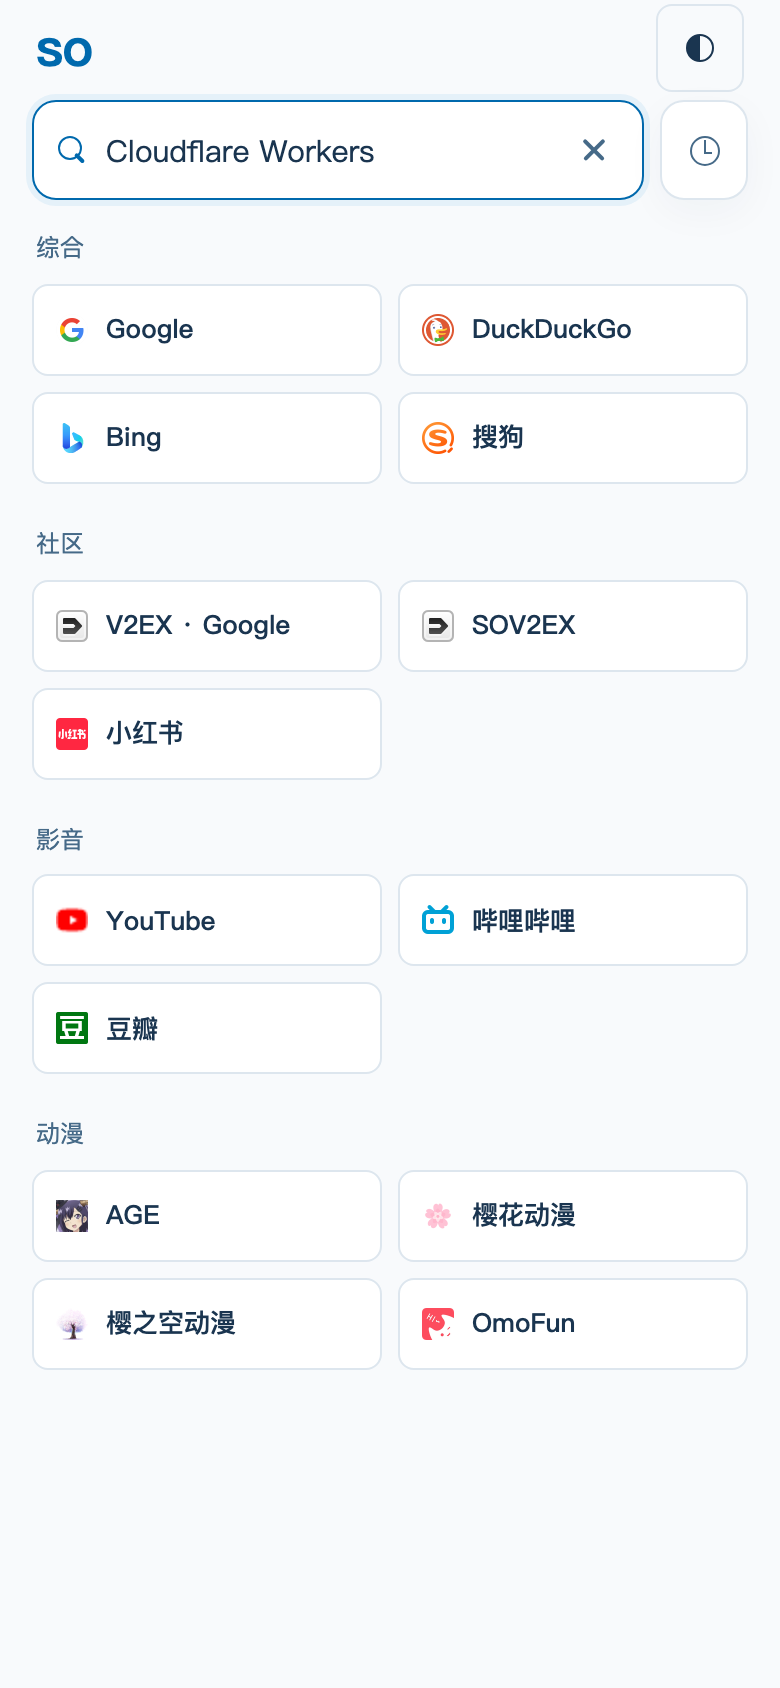
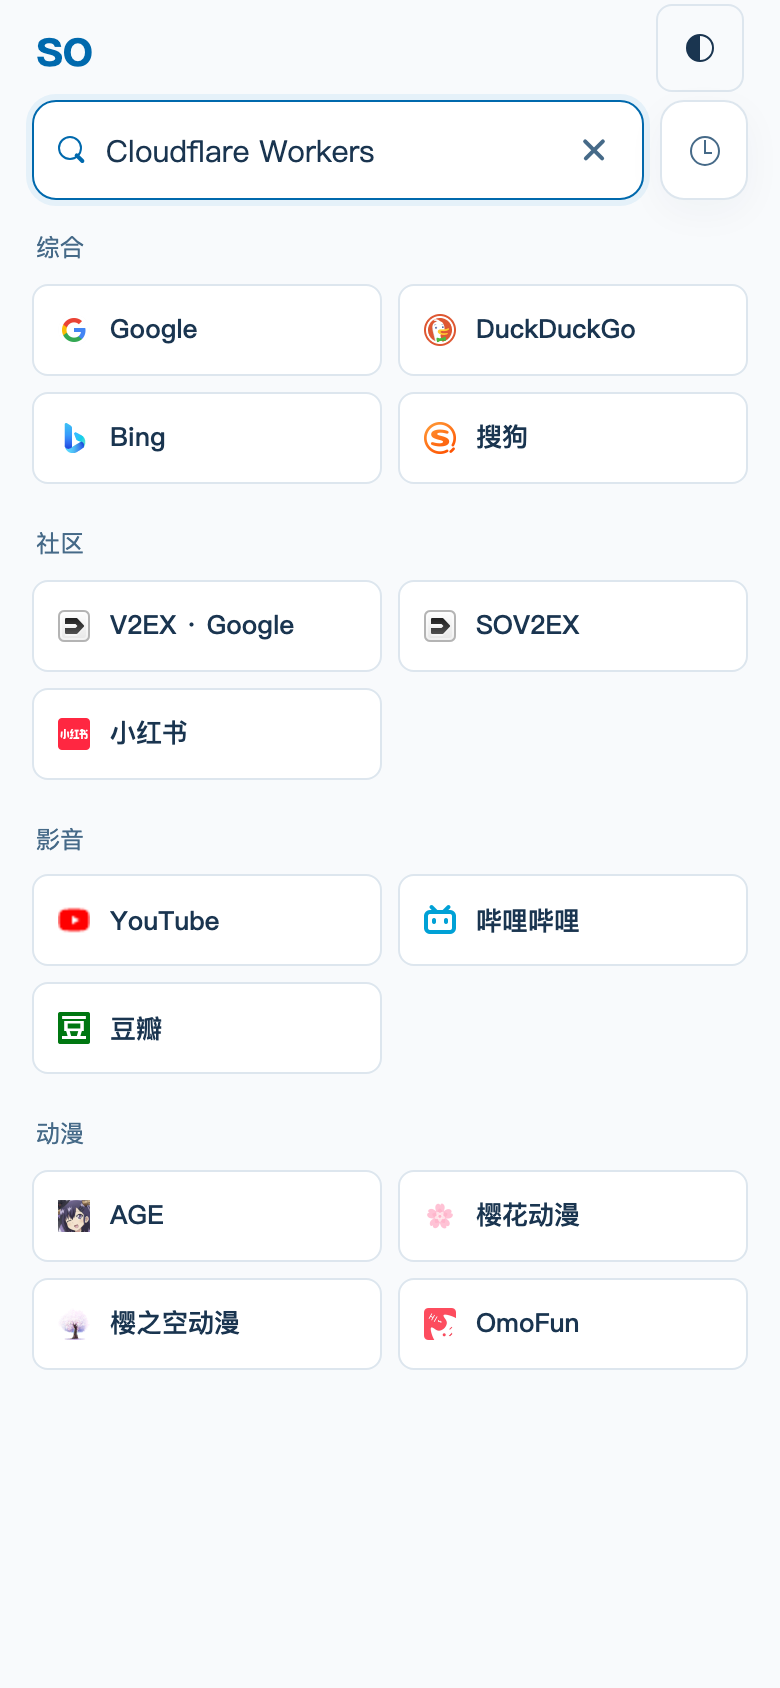
feat: 深色图标加底片，移动端不再弹键盘
- 入口图标统一 20px，深色下加淡底片
- 手机端点最近搜索或历史项不再聚焦输入框
- 删除历史按钮的 aria-label 带上关键词
- 最近 5 条提取为常量
- .ryugi/ 加入 .gitignore
- 预览图与测试文档同步

diff --git a/designs/so/clean.html b/designs/so/clean.html
@@ -44,7 +44,7 @@ input{min-width:0;flex:1;background:transparent;border:0;outline:0;color:var(--t
 .group-title{margin:0 0 8px 2px;font-size:12px;font-weight:400;color:var(--muted)}
 .engine-grid{display:grid;grid-template-columns:repeat(4,minmax(0,1fr));gap:8px}
 .engine{display:flex;gap:8px;align-items:center;background:var(--surface);border:1px solid var(--line);border-radius:8px;padding:8px 10px;min-height:46px;transition:transform .15s,border-color .15s,box-shadow .15s}.engine:hover{border-color:var(--accent);transform:translateY(-1px);box-shadow:0 6px 18px rgba(26,53,80,.06)}
-.engine-mark{display:flex;align-items:center;justify-content:center;width:18px;height:18px;flex:0 0 18px;background:transparent}.engine-mark img{width:16px;height:16px;object-fit:contain}
+.engine-mark{display:flex;align-items:center;justify-content:center;width:20px;height:20px;flex:0 0 20px;border-radius:4px;background:transparent}.engine-mark img{width:16px;height:16px;object-fit:contain}:root[data-theme="dark"] .engine-mark{background:rgba(255,255,255,.06)}
 .engine-name{font-size:13px;font-weight:500;flex:1;min-width:0;overflow-wrap:anywhere}
 .history-panel{position:absolute;right:0;top:calc(100% + 6px);width:min(100%,360px);z-index:5;border:1px solid var(--line);border-radius:10px;background:var(--surface);box-shadow:0 12px 32px rgba(26,53,80,.12);padding:10px}
 .history-heading{display:flex;justify-content:space-between;align-items:center;font-size:12px;padding:0 4px 8px;border-bottom:1px solid var(--line)}
@@ -380,10 +380,12 @@ function render(query,save=false){
  return true;
 }
 function search(){if(!input.value.trim())return;if(!render(input.value,true))return;const url=new URL(location.href);url.searchParams.set('q',input.value.trim());if(url.href!==location.href)history.pushState(null,'',url);closeHistory();}
-function renderHistory(){const list=document.querySelector('#historyList');list.replaceChildren();const items=readHistory();const clearBtn=document.querySelector('#clearHistoryBtn');if(clearBtn)clearBtn.hidden=items.length===0;if(!items.length){const empty=document.createElement('div');empty.className='history-empty';empty.textContent='暂无搜索历史';list.append(empty);return;}for(const query of items){const row=document.createElement('div');row.className='history-row';const button=document.createElement('button');button.type='button';button.className='history-query';button.textContent=query;button.onclick=()=>{input.value=query;syncClear();search();input.focus();};const remove=document.createElement('button');remove.type='button';remove.className='history-delete';const close=document.createElement('span');close.className='close-symbol';close.setAttribute('aria-hidden','true');remove.append(close);remove.setAttribute('aria-label','删除历史：'+query);remove.onclick=event=>{event.stopPropagation();writeHistory(readHistory().filter(item=>item!==query));renderHistory();renderRecent(document.querySelector('#results').hidden);trigger.focus();};row.append(button,remove);list.append(row);}}
+function renderHistory(){const list=document.querySelector('#historyList');list.replaceChildren();const items=readHistory();const clearBtn=document.querySelector('#clearHistoryBtn');if(clearBtn)clearBtn.hidden=items.length===0;if(!items.length){const empty=document.createElement('div');empty.className='history-empty';empty.textContent='暂无搜索历史';list.append(empty);return;}for(const query of items){const row=document.createElement('div');row.className='history-row';const button=document.createElement('button');button.type='button';button.className='history-query';button.textContent=query;button.onclick=()=>{input.value=query;syncClear();search();if(!isMobileDevice())input.focus();};const remove=document.createElement('button');remove.type='button';remove.className='history-delete';const close=document.createElement('span');close.className='close-symbol';close.setAttribute('aria-hidden','true');remove.append(close);remove.setAttribute('aria-label','删除历史记录：'+query);remove.onclick=event=>{event.stopPropagation();writeHistory(readHistory().filter(item=>item!==query));renderHistory();renderRecent(document.querySelector('#results').hidden);trigger.focus();};row.append(button,remove);list.append(row);}}
+const isMobileDevice=()=>/android|webos|iphone|ipad|ipod|blackberry|iemobile|opera mini/i.test(navigator.userAgent);
+const recentLimit=5;
 let clearHistoryArmed=false,clearHistoryTimer=null;
 function resetClearHistory(){clearHistoryArmed=false;clearTimeout(clearHistoryTimer);const btn=document.querySelector('#clearHistoryBtn');if(btn){btn.textContent='清空';btn.setAttribute('aria-label','清空搜索历史');}}
-function renderRecent(emptyView){const box=document.querySelector('#recentSearches');const list=document.querySelector('#recentList');if(!box||!list)return;list.replaceChildren();const items=emptyView?readHistory().slice(0,5):[];if(!items.length){box.hidden=true;return;}for(const query of items){const chip=document.createElement('button');chip.type='button';chip.className='recent-chip';chip.textContent=query;chip.title=query;chip.onclick=()=>{input.value=query;syncClear();search();input.focus();};list.append(chip);}box.hidden=false;}
+function renderRecent(emptyView){const box=document.querySelector('#recentSearches');const list=document.querySelector('#recentList');if(!box||!list)return;list.replaceChildren();const items=emptyView?readHistory().slice(0,recentLimit):[];if(!items.length){box.hidden=true;return;}for(const query of items){const chip=document.createElement('button');chip.type='button';chip.className='recent-chip';chip.textContent=query;chip.title=query;chip.onclick=()=>{input.value=query;syncClear();search();if(!isMobileDevice())input.focus();};list.append(chip);}box.hidden=false;}
 document.querySelector('#searchForm').addEventListener('submit',event=>{event.preventDefault();search();});
 input.addEventListener('input',syncClear);input.addEventListener('input',syncCurrentSearch);
 document.querySelector('#clearButton').onclick=()=>{input.value='';syncClear();render('');input.focus();if(location.search)history.replaceState(null,'',location.pathname);};
@@ -394,7 +396,7 @@ document.addEventListener('keydown',event=>{if(event.key==='/'&&event.target.tag
 window.addEventListener('popstate',()=>{input.value=new URL(location.href).searchParams.get('q')||'';syncClear();render(input.value);});
 input.value=new URL(location.href).searchParams.get('q')||'';
 syncClear();render(input.value,!!input.value);
-if(!matchMedia('(pointer:coarse)').matches)input.focus();
+if(!isMobileDevice())input.focus();
 </script>
 </body>
 </html>

diff --git a/src/client.js b/src/client.js
@@ -8,6 +8,7 @@ const THEME_KEY = document.documentElement.dataset.themeKey;
 const SEARCH_HISTORY_KEY = 'search_history';
 const SEARCH_INPUT_ID = 'searchInput';
 const MOBILE_REGEX = /android|webos|iphone|ipad|ipod|blackberry|iemobile|opera mini/i;
+const RECENT_SEARCH_LIMIT = 5;
 
 function isMobileDevice() {
   return MOBILE_REGEX.test(navigator.userAgent);
@@ -92,7 +93,7 @@ function renderRecentSearches() {
   if (!box || !list) return;
 
   const emptyView = container ? container.classList.contains('is-empty') : false;
-  const history = emptyView ? getSearchHistory().slice(0, 5) : [];
+  const history = emptyView ? getSearchHistory().slice(0, RECENT_SEARCH_LIMIT) : [];
 
   list.replaceChildren();
   if (history.length === 0) {
@@ -166,8 +167,8 @@ function renderHistoryDropdown() {
     deleteIcon.setAttribute('aria-hidden', 'true');
     deleteBtn.appendChild(deleteIcon);
     deleteBtn.dataset.query = encodeURIComponent(query);
-    deleteBtn.setAttribute('aria-label', '删除此历史记录');
-    deleteBtn.title = '删除此历史记录';
+    deleteBtn.setAttribute('aria-label', `删除历史记录：${query}`);
+    deleteBtn.title = `删除历史记录：${query}`;
 
     itemDiv.appendChild(queryBtn);
     itemDiv.appendChild(deleteBtn);

diff --git a/src/styles.css b/src/styles.css
@@ -549,10 +549,18 @@ input[type="text"]::placeholder {
 }
 
 .button-icon {
-  width: 16px;
-  height: 16px;
-  flex: 0 0 16px;
+  width: 20px;
+  height: 20px;
+  flex: 0 0 20px;
+  padding: 2px;
+  box-sizing: border-box;
+  border-radius: 4px;
   object-fit: contain;
+}
+
+/* 白底 favicon 在深色下最亮，加一层很淡的底片把它收进同一套卡片 */
+:root[data-theme="dark"] .button-icon {
+  background: rgba(255, 255, 255, 0.06);
 }
 
 .button-icon.error {

diff --git a/designs/so/README.md b/designs/so/README.md
@@ -2,7 +2,7 @@
 
 独立设计稿。当前稿为 `clean.html`；`index.html`、`compact.html`、`Feedback - so.html` 已移到 `archive/`，不再维护。保留蓝色主色，使用浅底、细边框和搜索引擎卡片；移除标语、快捷键说明、页脚提示和空态介绍。
 
-2026-11-18：空态改为整组居中，并在搜索框下列出最近 5 条搜索；入口按综合／社区／影音／动漫分组；当前搜索默认隐藏、编辑时出现；历史面板加“清空”，删除键改为 44px；主题按钮统一为 44px 描边。`clean.html` 与 `src/` 已同步；其余三份原型已归档。
+2026-11-18：空态改为整组居中，并在搜索框下列出最近 5 条搜索；入口按综合／社区／影音／动漫分组；当前搜索默认隐藏、编辑时出现；历史面板加“清空”，删除键改为 44px；主题按钮统一为 44px 描边；深色下入口图标加 20px 淡底片；手机端点最近搜索不再聚焦输入框。`clean.html` 与 `src/` 已同步；其余三份原型已归档。
 
 设计依据：`src/template.html`、`src/styles.css`、`src/client.js`、`src/config.js`。输入校验代码来自 `src/utils/security.js`，引擎清单取自当前配置。使用本机字体，网站图标按原配置下载至 assets/，保持原色，无滤镜和远程资源依赖。原型为静态快照，之后调整正式配置时不会自动同步。
 

diff --git a/HOW_TO_TEST.md b/HOW_TO_TEST.md
@@ -72,6 +72,8 @@ npm test
 - [ ] 清除本地历史后刷新：只显示标识、搜索框和历史图标，不出现空的“最近搜索”标题
 - [ ] 结果页不显示最近搜索；点 × 回到居中空态，旧卡片与 `?q=` 一起消失
 - [ ] 右上角切换浅色／深色，刷新后保持
+- [ ] 深色结果页：入口图标有统一的 20px 淡底片
+- [ ] 手机端点最近搜索或历史项：直接出结果，不弹软键盘；桌面端仍聚焦输入框
 - [ ] 搜索历史图标在搜索框右侧，点击展开面板，Esc 关闭并回到图标
 - [ ] 历史条目可用键盘聚焦、回车重搜；右侧 × 可删除（点击区域 44px）
 - [ ] 历史标题右侧“清空”点一次变成“确认清空”，再点一次清空全部；面板保持展开并显示“暂无搜索历史”
